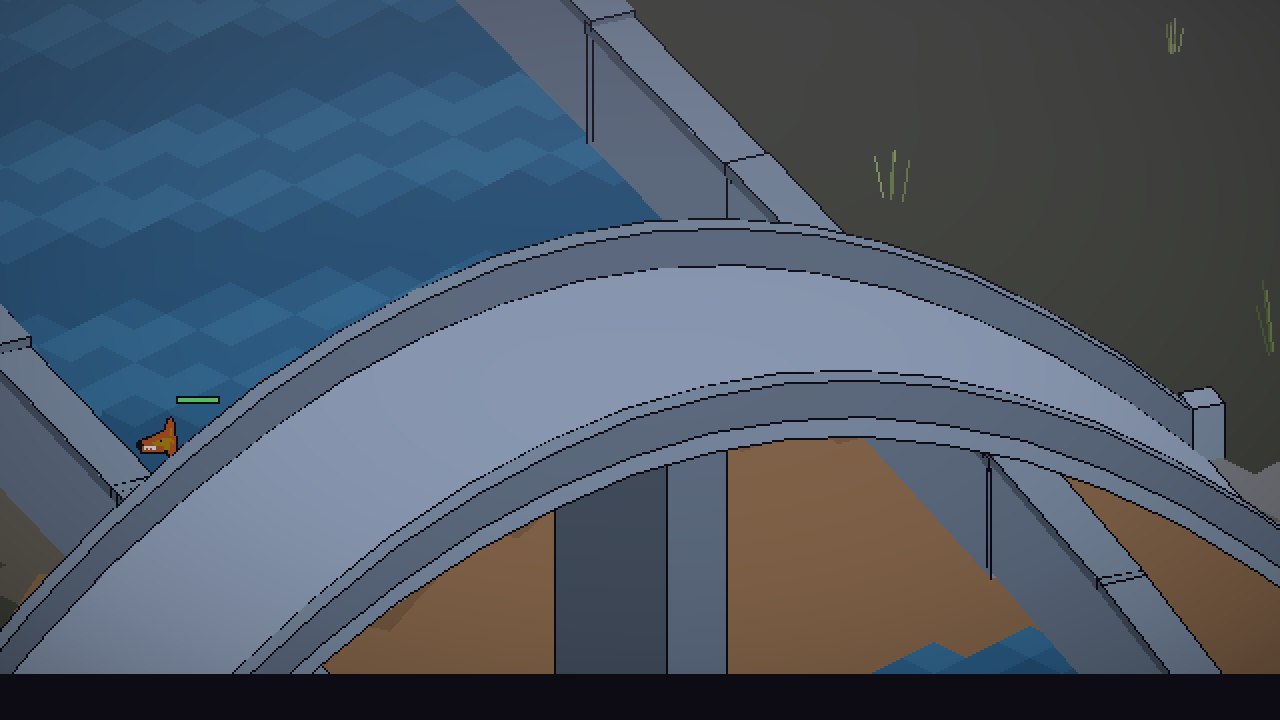
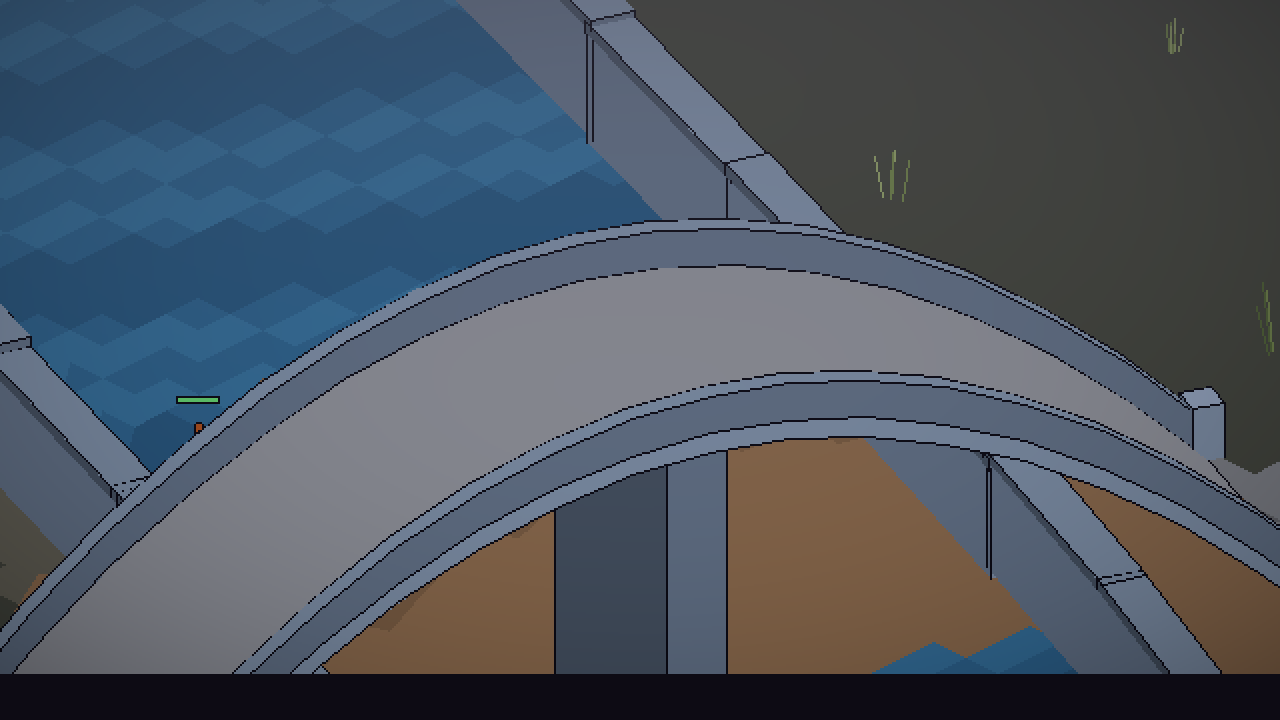
Bridge deck top in the stone-trail colour so it reads as walkable

Changed region(s): [[0.0, 0.3667, 0.9688, 0.9472], [0.0938, 0.5806, 0.1562, 0.6417]]

diff --git a/engine/ba-stick-render/src/tests.rs b/engine/ba-stick-render/src/tests.rs
@@ -440,7 +440,7 @@ fn river_wall_joints_are_mitered_and_flush() {
     }
 }
 fn bridge_deck_is_one_continuous_ribbon() {
-    use crate::palette::BANK_L;
+    use crate::palette::TRAIL_STONE;
     use crate::props::{draw, kind, Prop};
     use stick_engine::camera::Camera;
     use stick_engine::math::v3;
@@ -458,7 +458,7 @@ fn bridge_deck_is_one_continuous_ribbon() {
         let y = 0.6 * 4.0 * t * (1.0 - t);
         let q = cam.project(v3(0.0, y + 0.01, -5.0 + 10.0 * t));
         let c = fb.color[q.y as usize * fb.w + q.x as usize];
-        if c != BANK_L {
+        if c != TRAIL_STONE {
             seams += 1;
         }
     }

diff --git a/engine/ba-stick-render/src/props.rs b/engine/ba-stick-render/src/props.rs
@@ -350,7 +350,9 @@ fn draw_one(c: &mut Ctx, p: &Prop, time: f32) {
                     })
                     .collect()
             };
-            c.ribbon(0.0, p.w * 0.5, &st(-0.22, 0.0), BANK_L, BANK, BANK_D);
+            // deck top in the stone-trail colour: walkable surfaces share the trail palette,
+            // so it reads apart from the (blocked) wall copings and parapets
+            c.ribbon(0.0, p.w * 0.5, &st(-0.22, 0.0), TRAIL_STONE, BANK, BANK_D);
             for side in [-1.0f32, 1.0] {
                 c.ribbon(side * (p.w * 0.5 - 0.12), 0.12, &st(0.0, 0.42), BANK, BANK_D, BANK_DD);
             }
